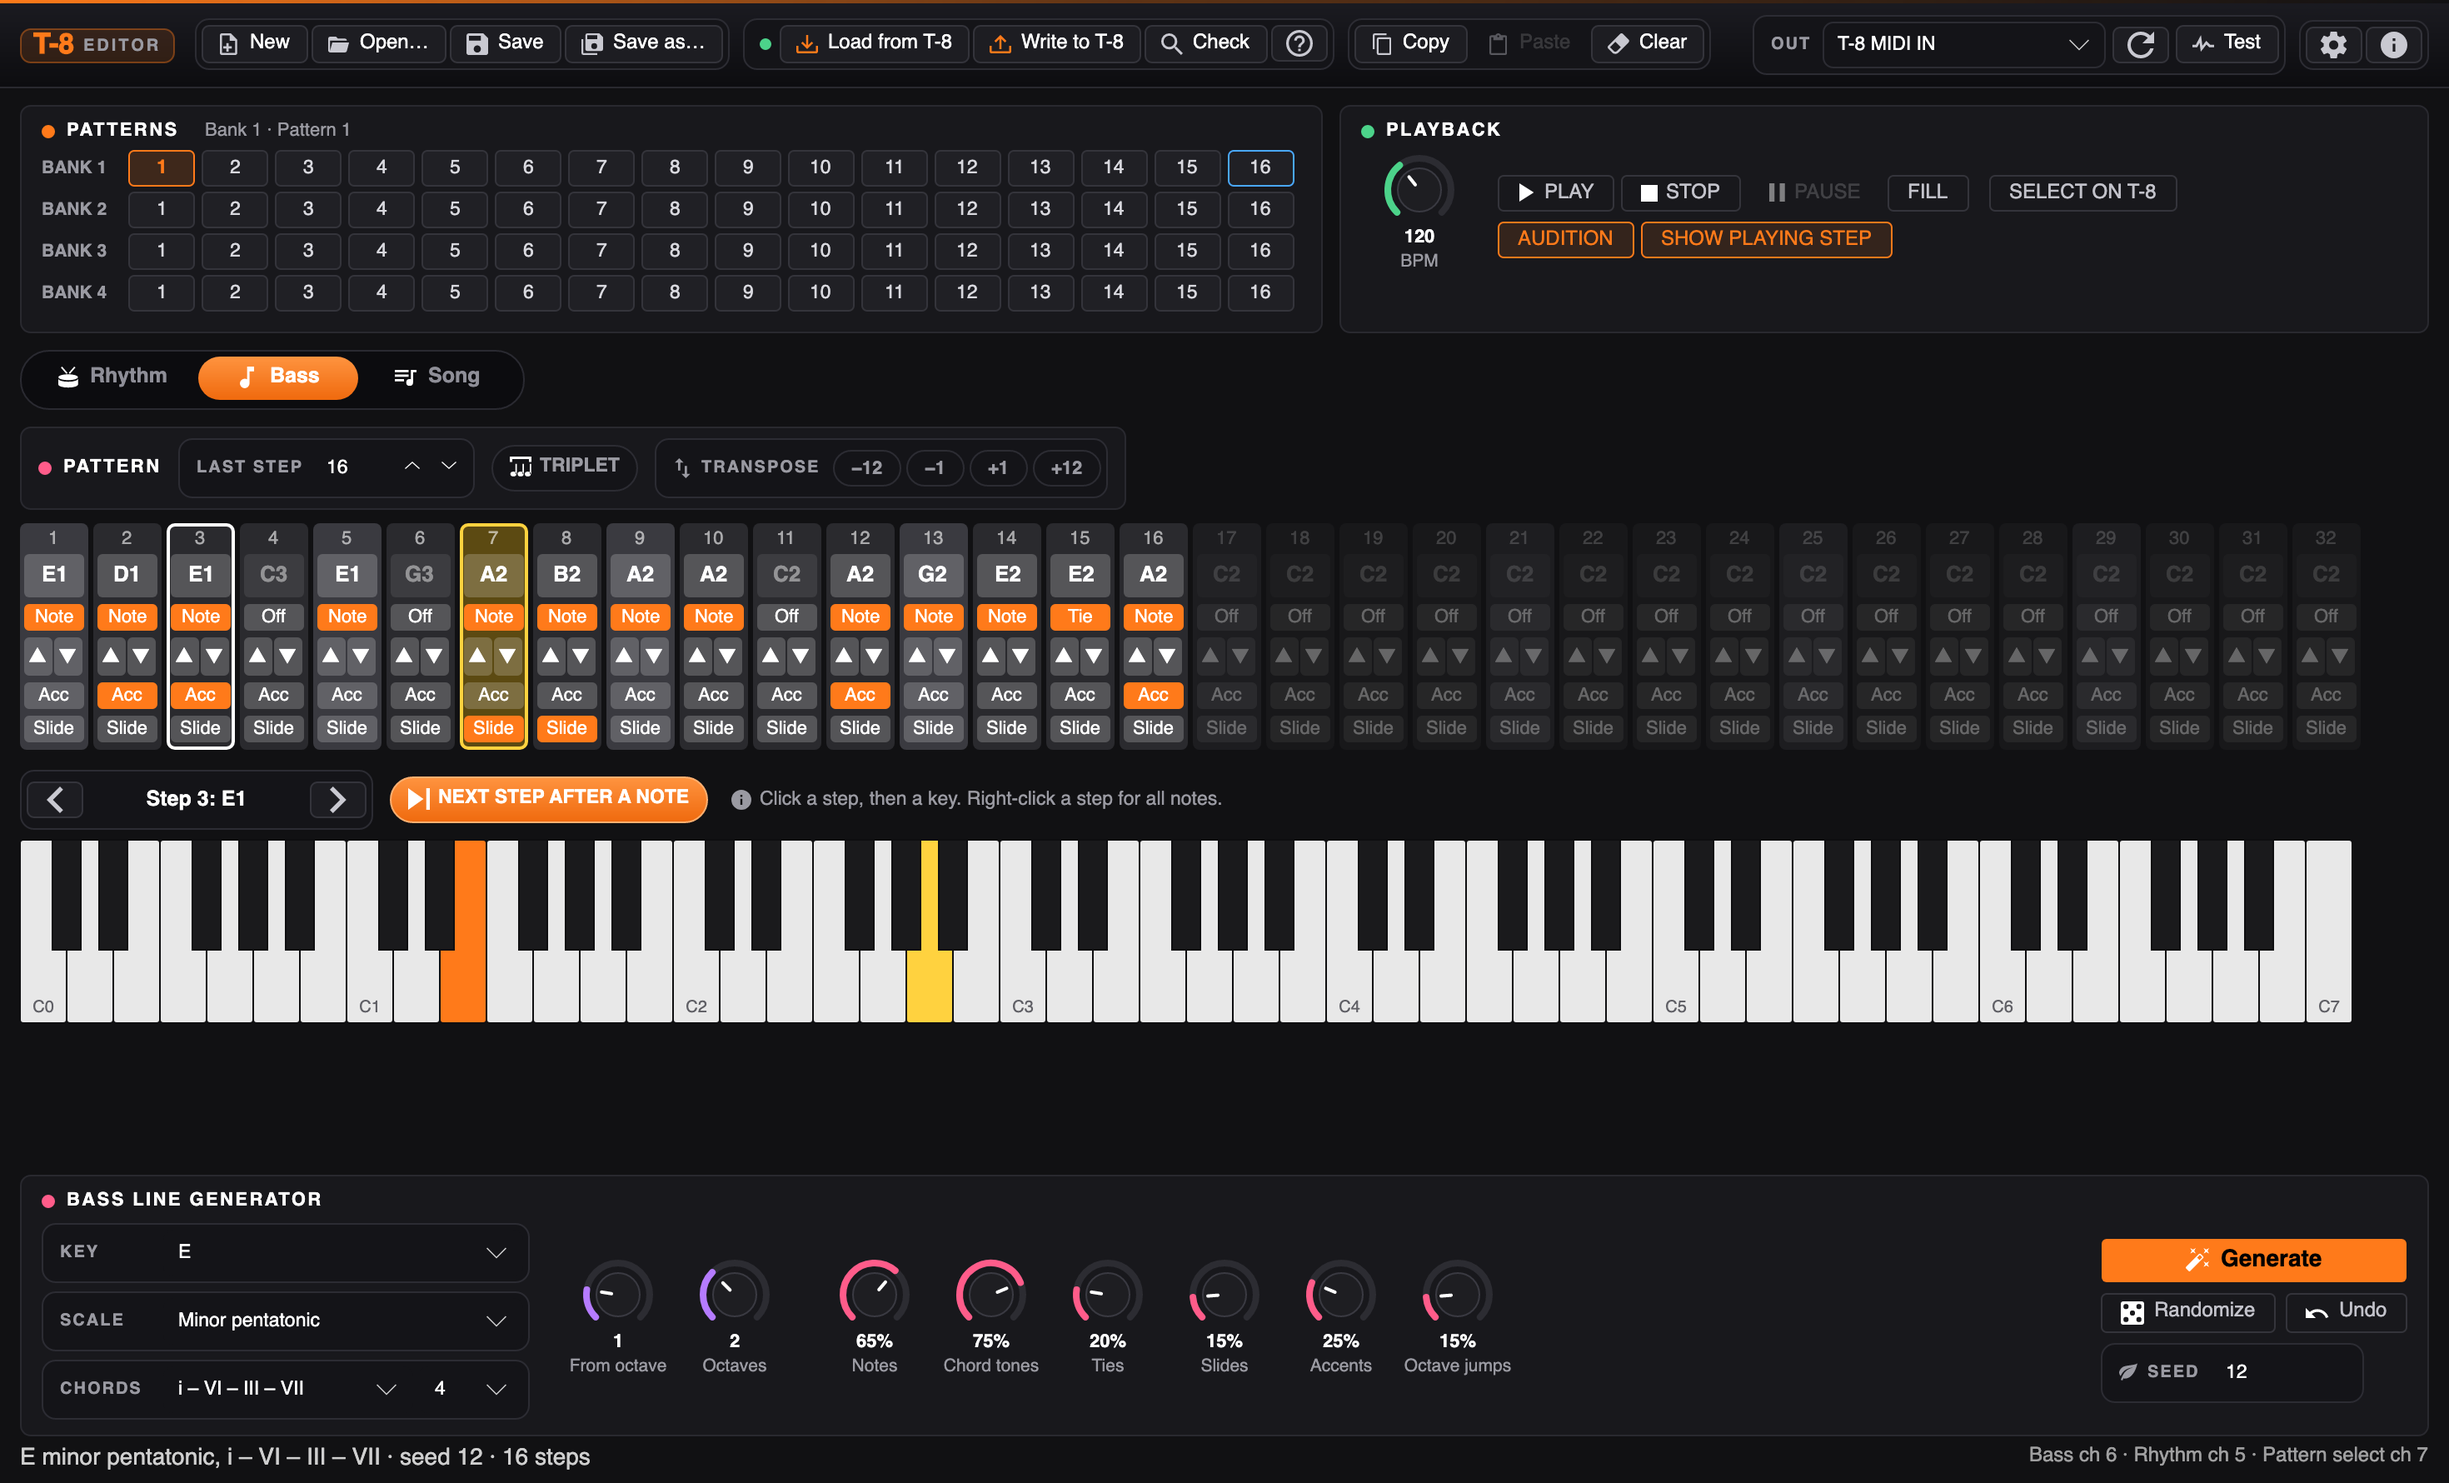
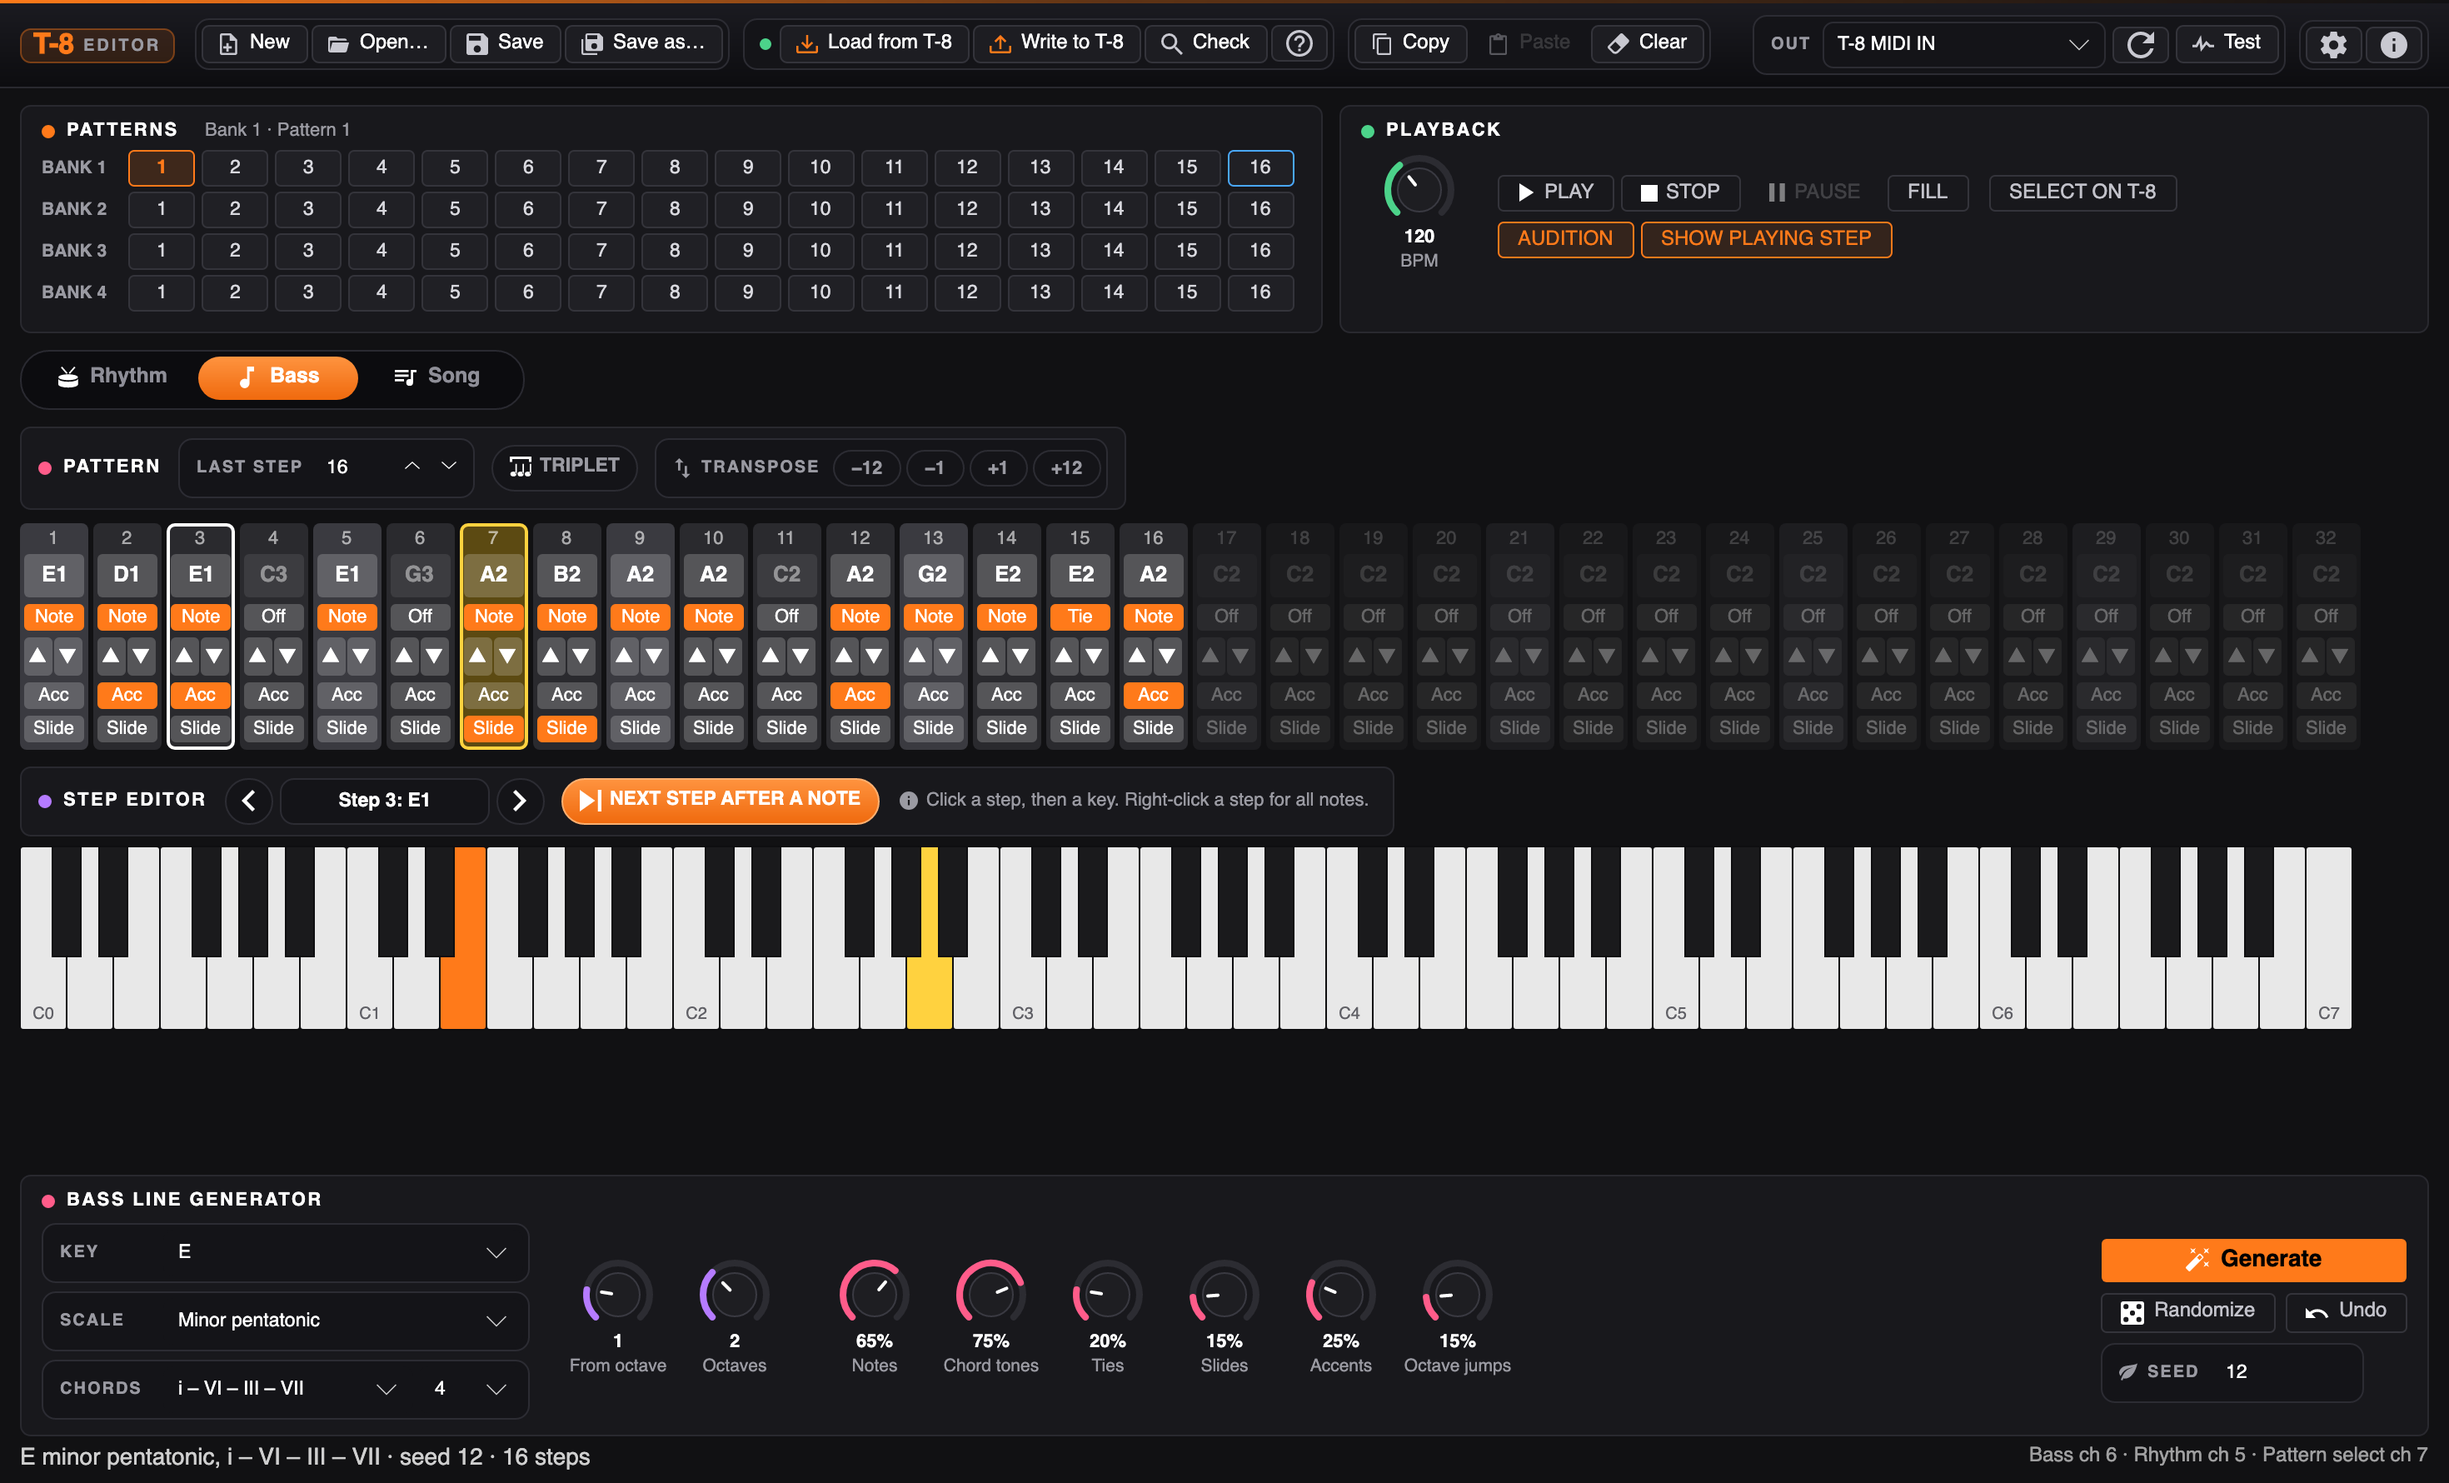
Bass tab: a STEP EDITOR panel above the keyboard
The step bar is a card titled STEP EDITOR (purple dot, like PATTERN):
previous / next are rounded chevron chips, the current step is an
outlined readout in the smaller font, "Next step after a note" is an
orange chip with an icon, and the hint is muted with an info icon. The
Bass tab still fits a MacBook Air window. The test checks the panel,
icons, the toggle and previous / next. README and screenshots updated.

diff --git a/tests/T8.Editor.Tests/MainWindowTests.cs b/tests/T8.Editor.Tests/MainWindowTests.cs
@@ -241,15 +241,27 @@ public class MainWindowTests
         triplet.IsChecked = !vm.Bass.Triplet;
         Assert.Equal(triplet.IsChecked, vm.Bass.Triplet);
 
-        // The step picker is an outlined box; "next step after a note" is a chip.
-        Assert.Contains("fieldBox", editor.FindControl<Border>("StepPickerBox")!.Classes);
+        // The STEP EDITOR panel: chevron chips around an outlined readout, the auto-advance chip and the hint.
+        var stepPanel = editor.FindControl<Border>("StepEditorPanel")!;
+        var previous = editor.FindControl<Button>("PreviousStepButton")!;
+        var next = editor.FindControl<Button>("NextStepButton")!;
         var advance = editor.FindControl<ToggleButton>("AdvanceCheck")!;
+        var readout = editor.FindControl<Border>("StepPickerBox")!;
+        var hint = editor.FindControl<StackPanel>("StepEditorHint")!;
+        Assert.All(new Control[] { previous, next, advance, readout, hint }, c => Assert.Contains(stepPanel, c.GetVisualAncestors()));
+        Assert.Contains("STEP EDITOR", stepPanel.GetVisualDescendants().OfType<TextBlock>().Select(t => t.Text));
+        Assert.Contains("fieldBox", readout.Classes);
+        Assert.All(new Control[] { previous, next, advance, hint },
+            c => Assert.NotNull(c.GetVisualDescendants().OfType<PathIcon>().First().Data));
         Assert.Contains("chip", advance.Classes);
         advance.IsChecked = !vm.Bass.AdvanceAfterNote;
         Assert.Equal(advance.IsChecked, vm.Bass.AdvanceAfterNote);
-        vm.Bass.SelectedStep = vm.Bass.Steps[0];
-        editor.FindControl<Button>("NextStepButton")!.Command!.Execute(null);
-        Assert.Same(vm.Bass.Steps[1], vm.Bass.SelectedStep);
+        vm.Bass.SelectedStep = vm.Bass.Steps[1];
+        next.Command!.Execute(null);
+        Assert.Same(vm.Bass.Steps[2], vm.Bass.SelectedStep);
+        previous.Command!.Execute(null);
+        previous.Command!.Execute(null);
+        Assert.Same(vm.Bass.Steps[0], vm.Bass.SelectedStep);
 
         var before = vm.Bass.Steps[0].NoteName;
         up12.Command!.Execute(up12.CommandParameter);

diff --git a/README.md b/README.md
@@ -295,7 +295,8 @@ Each column is one step: its note, its state, semitone up/down, and Accent and S
 - Click a step's note to select it (outlined in white); its note lights up orange on the keyboard.
 - Click a key on the **keyboard** to give the selected step that note. The step is turned on, you hear the note
   on the T-8, and the selection moves to the next step, so you can play a line in key by key. Turn off
-  **Next step after a note** to stay on the same step. The arrows move the selection.
+  **Next step after a note** (in the **Step editor** panel above the keyboard) to stay on the same step. The
+  chevrons there move the selection.
 - The state button cycles **Off → Note → Tie**. A tie holds the previous note through the step.
 - The **Pattern** panel above the steps holds **Last step** (1–32), **Triplet** (lit orange when on) and
   **Transpose** (−12, −1, +1, +12 semitones for the whole line).
